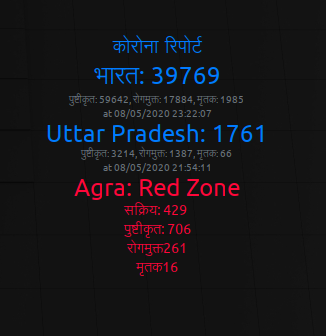
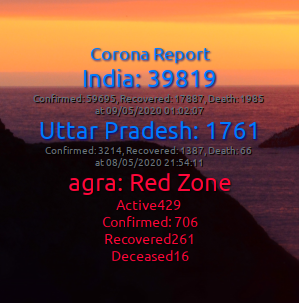
UI imporved, desklet crash removed on fresh install

diff --git a/covid19@india/files/covid19@india/desklet.js b/covid19@india/files/covid19@india/desklet.js
@@ -32,16 +32,37 @@ MyDesklet.prototype = {
 	_init: function(metadata, desklet_id) {
 		Desklet.Desklet.prototype._init.call(this, metadata, desklet_id);
 
-		this.mystate = "7";
-		this.mydistrict = "Agra";
-		this.langdl = "hi";
-		this.district_enable = false;
+		//this.mystate = "7";
+		//this.mydistrict = "Agra";
+		//this.langdl = "hi";
+		//this.district_enable = false;
+		//this.title_css = "color: #007bff; font-size: 18px; text-align: center; text-shadow: #f3ff22 1px 1px 4px;";
+		//this.india_css = "color: #007bff; font-size: 24px; text-align: center; text-shadow: #f3ff22 1px 1px 4px;";
+		//this.indiadetails_css = "color: #6c757d; font-size: 10px; text-align: center; text-shadow: #f3ff22 1px 1px 4px;";
+		//this.state_css = "color: #007bff; font-size: 24px; text-align: center; text-shadow: #f3ff22 1px 1px 4px;";
+		//this.statedetails_css = "color: #6c757d; font-size: 10px; text-align: center; text-shadow: #f3ff22 1px 1px 4px;";
+		//this.district_css = "text-align:center; font-size: 24px; text-align: center; text-shadow: #f3ff22 1px 1px 4px;";
+		//this.districtdetails_css = "text-align:center; font-size: 14px; text-align: center; text-shadow: #f3ff22 1px 1px 4px;";
+		//this.districtred_css = "#ff073a";
+		//this.districtorange_css = "#fd7e14";
+		//this.districtgreen_css = "#28a745";
 
 		this.settings = new Settings.DeskletSettings(this, this.metadata.uuid, desklet_id);
 		this.settings.bindProperty(Settings.BindingDirection.IN, "langdl", "langdl", this.on_setting_changed);
 		this.settings.bindProperty(Settings.BindingDirection.IN, "state", "mystate", this.on_setting_changed);
 		this.settings.bindProperty(Settings.BindingDirection.IN, "district", "mydistrict");
 		this.settings.bindProperty(Settings.BindingDirection.IN, "district_enable", "district_enable", this.on_setting_changed);
+		this.settings.bindProperty(Settings.BindingDirection.IN, "title_css", "title_css");
+		this.settings.bindProperty(Settings.BindingDirection.IN, "india_css", "india_css");
+		this.settings.bindProperty(Settings.BindingDirection.IN, "indiadetails_css", "indiadetails_css");
+		this.settings.bindProperty(Settings.BindingDirection.IN, "state_css", "state_css");
+		this.settings.bindProperty(Settings.BindingDirection.IN, "statedetails_css", "statedetails_css");
+		this.settings.bindProperty(Settings.BindingDirection.IN, "district_css", "district_css");
+		this.settings.bindProperty(Settings.BindingDirection.IN, "districtdetails_css", "districtdetails_css");
+		this.settings.bindProperty(Settings.BindingDirection.IN, "districtred_css", "districtred_css", this.on_setting_changed);
+		this.settings.bindProperty(Settings.BindingDirection.IN, "districtorange_css", "districtorange_css", this.on_setting_changed);
+		this.settings.bindProperty(Settings.BindingDirection.IN, "districtgreen_css", "districtgreen_css", this.on_setting_changed);
+
 
 
 		this.setupUI();		
@@ -53,38 +74,38 @@ MyDesklet.prototype = {
 		this._covidContainer = new St.BoxLayout({vertical: true, style_class: ''});
 		this._title = new St.Label({text: _(this.langdl=="hi"? "कोरोना रिपोर्ट" : "Corona Report")});
 		this._india = new St.Label({text: _(this.langdl=="hi" ? "भारत: loading" : "India: loading")});
-		this._indiaDetails = new St.Label();
-		this._state = new St.Label();
-		this._stateDetails = new St.Label();
+		this._indiaDetails = new St.Label({text: _(this.langdl=="hi" ? "loading \n loading" : "loading \n loading")});
+		this._state = new St.Label({text: _(this.langdl=="hi" ? "राज्य: loading" : "State loading")});
+		this._stateDetails = new St.Label({text: _(this.langdl=="hi" ? "loading \n loading" : "loading \n loading")});
 		this._covidContainer.add(this._title);
 		this._covidContainer.add(this._india);
 		this._covidContainer.add(this._indiaDetails);
 		this._covidContainer.add(this._state);
 		this._covidContainer.add(this._stateDetails);
-		//this._covidContainer.add(this._district);
-		//this._covidContainer.add(this._districtDetails);
+		this._districtContainer = new St.BoxLayout({vertical: true, style_class: ""});
+		this._district = new St.Label({text: _(this.langdl=="hi" ? "जिला: loading" : "District: loading")});
+		this._districtDetails = new St.Label({text: _(this.langdl=="hi" ? "loading \n loading \n loading \n loading" : "loading \n loading \n loading \n loading")});
+		this._districtContainer.add(this._district);
+		this._districtContainer.add(this._districtDetails);
 
 		if(this.district_enable == true) {
-			this._districtContainer = new St.BoxLayout({vertical: true, style_class: ""});
-			this._district = new St.Label({text: _('District loading...')});
-			this._districtDetails = new St.Label();
-			this._districtContainer.add(this._district);
-			this._districtContainer.add(this._districtDetails);
 			this._covidContainer.add(this._districtContainer);
 		}
 
 		this.setContent(this._covidContainer);
 		this.setHeader(_("Covid 19 India"));
 
-		this._title.style="color: #007bff; font-size: 18px; text-align: center"
-		this._india.style="color: #007bff; font-size: 24px; text-align: center";
-		this._indiaDetails.style="color: #6c757d; font-size: 10px; text-align: center";
-		this._state.style="color: #007bff; font-size: 24px; text-align: center";
-		this._stateDetails.style="color: #6c757d; font-size: 10px; text-align: center";
-		this._district.style="text-align:center";
-		this._districtDetails.style="text-align:center";
+		this._title.style= this.title_css;
+		this._india.style= this.india_css;
+		this._indiaDetails.style= this.indiadetails_css;
+		this._state.style= this.state_css;
+		this._stateDetails.style= this.statedetails_css;
+		
+		this._district.style = this.district_css;
+		this._districtDetails.style = this.districtdetails_css;
+		
 
-		this._indiatooltip = new Tooltips.Tooltip(this._india);
+		//this._indiatooltip = new Tooltips.Tooltip(this._india);
 
 	},
 
@@ -103,18 +124,15 @@ MyDesklet.prototype = {
 		let jsonData = JSON.parse(this.getJSON("https://api.covid19india.org/data.json"));
 		if(jsonData !== "") {
 			this._india.set_text((this.langdl=="hi" ? "भारत: " :"India: ") +jsonData.statewise[0].active);
-			this._indiatooltip.set_text((this.langdl=="hi" ? "सक्रिय रोगी" :"Active Patient"))
+			//this._indiatooltip.set_text((this.langdl=="hi" ? "सक्रिय रोगी" :"Active Patient"))
 			if(this.langdl=="hi") {
 				this._indiaDetails.set_text("पुष्टीकृत: " + jsonData.statewise[0].confirmed + ", रोगमुक्त: "+ jsonData.statewise[0].recovered+", मृतक: "+jsonData.statewise[0].deaths+" \nat "+ jsonData.statewise[0].lastupdatedtime);
 				this._state.set_text(jsonData.statewise[this.mystate].state + ": " +jsonData.statewise[this.mystate].active);
 				this._stateDetails.set_text("पुष्टीकृत: " + jsonData.statewise[this.mystate].confirmed + ", रोगमुक्त: "+ jsonData.statewise[this.mystate].recovered+", मृतक: "+jsonData.statewise[this.mystate].deaths+" \nat "+ jsonData.statewise[this.mystate].lastupdatedtime);
-				
-
 			} else {
 				this._indiaDetails.set_text("Confirmed: " + jsonData.statewise[0].confirmed + ", Recovered: "+ jsonData.statewise[0].recovered+", Death: "+jsonData.statewise[0].deaths+" \nat "+ jsonData.statewise[0].lastupdatedtime);
 				this._state.set_text(jsonData.statewise[this.mystate].state + ": " +jsonData.statewise[this.mystate].active);
 				this._stateDetails.set_text("Confirmed: " + jsonData.statewise[this.mystate].confirmed + ", Recovered: "+ jsonData.statewise[this.mystate].recovered+", Death: "+jsonData.statewise[this.mystate].deaths+" \nat "+ jsonData.statewise[this.mystate].lastupdatedtime);
-				//this._district.set_text(this.mydistrict);
 			}
 		} else {
 			this._india.set_text("No internet");
@@ -122,29 +140,24 @@ MyDesklet.prototype = {
 		if(this.district_enable == true) {
 			let jsonZone = JSON.parse(this.getJSON("https://api.covid19india.org/zones.json"));
 			var zi;
-			if(jsonZone!=="" && this.langdl=="hi") {
+			if(jsonZone!=="") {
 				for(zi=0; zi<jsonZone.zones.length; zi++) {
 					if(jsonZone.zones[zi].district.toLowerCase()==this.mydistrict.toLowerCase()) break;
 				}
 				let zone = jsonZone.zones[zi].zone;
 				if(zone == "Red") {
-					this._district.style="color: #ff073a; font-size: 24px; text-align: center";
-					this._districtDetails.style="color: #ff073a; font-size: 14px; text-align: center";
+					this._district.style=this.district_css+"color: "+this.districtred_css;
+					this._districtDetails.style=this.districtdetails_css+"color: "+this.districtred_css;
 				}
 				if(zone == "Orange") {
-					this._district.style="color: #fd7e14; font-size: 24px; text-align: center";
-					this._districtDetails.style="color: #fd7e14; font-size: 14px; text-align: center";
+					this._district.style=this.district_css+"color: "+this.districtorange_css;
+					this._districtDetails.style=this.districtdetails_css+"color: "+this.districtorange_css;
 				}
 				if(zone == "Green") {
-					this._district.style="color: #28a745; font-size: 24px; text-align: center";
-					this._districtDetails.style="color: #28a745; font-size: 14px; text-align: center";
+					this._district.style=this.district_css+"color: "+this.districtgreen_css;
+					this._districtDetails.style=this.districtdetails_css+"color: "+this.districtgreen_css;
 				}
-			
-
-
 				this._district.set_text(this.mydistrict+": "+ zone+" Zone");
-			} else if(jsonZone!=="" && this.langdl=="en") {
-
 			} else {
 
 			}
